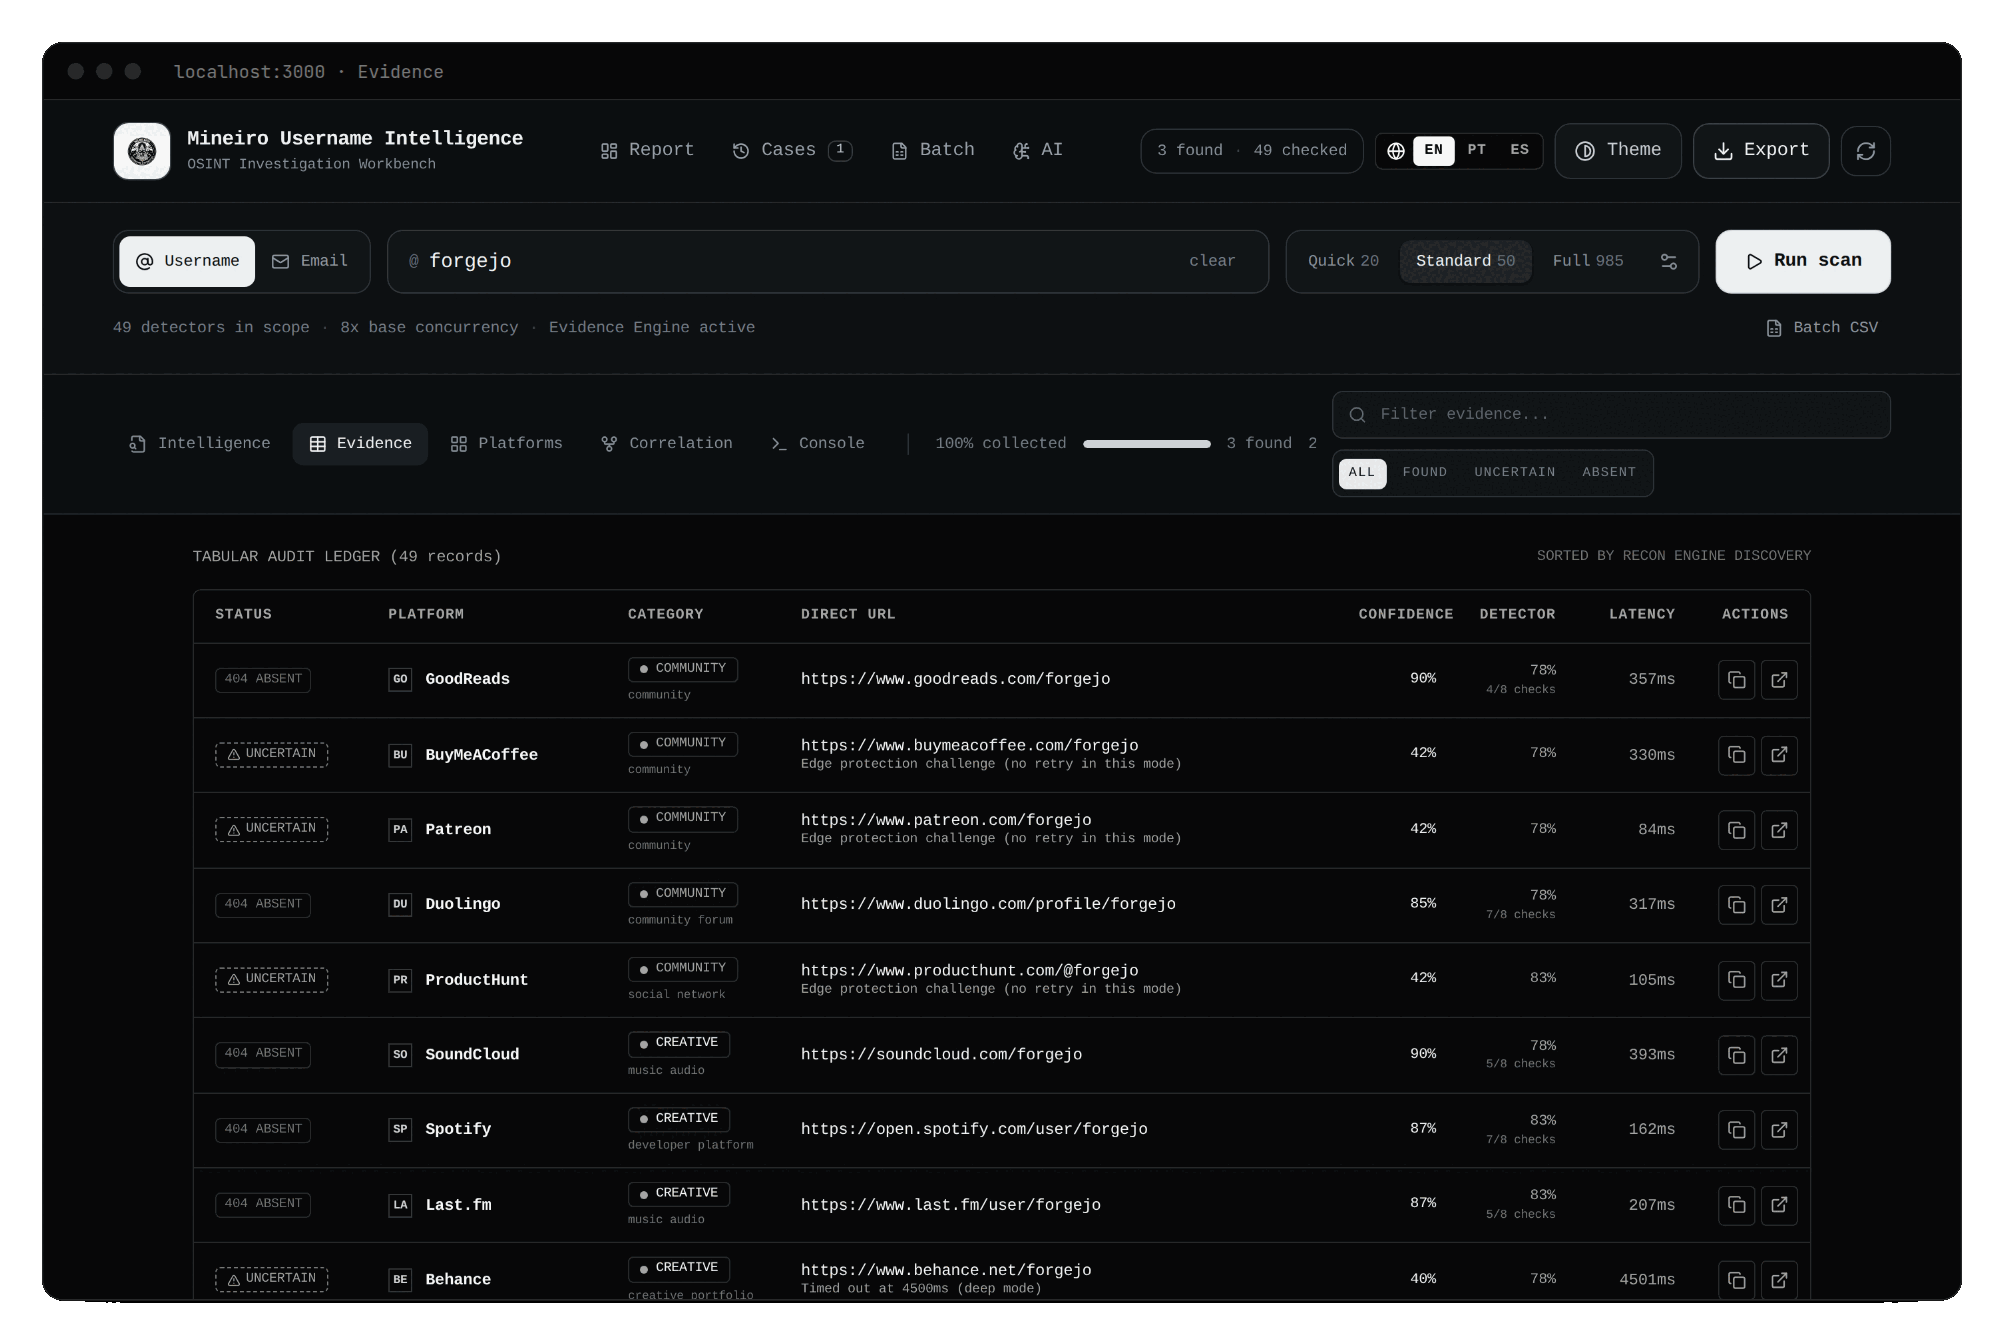
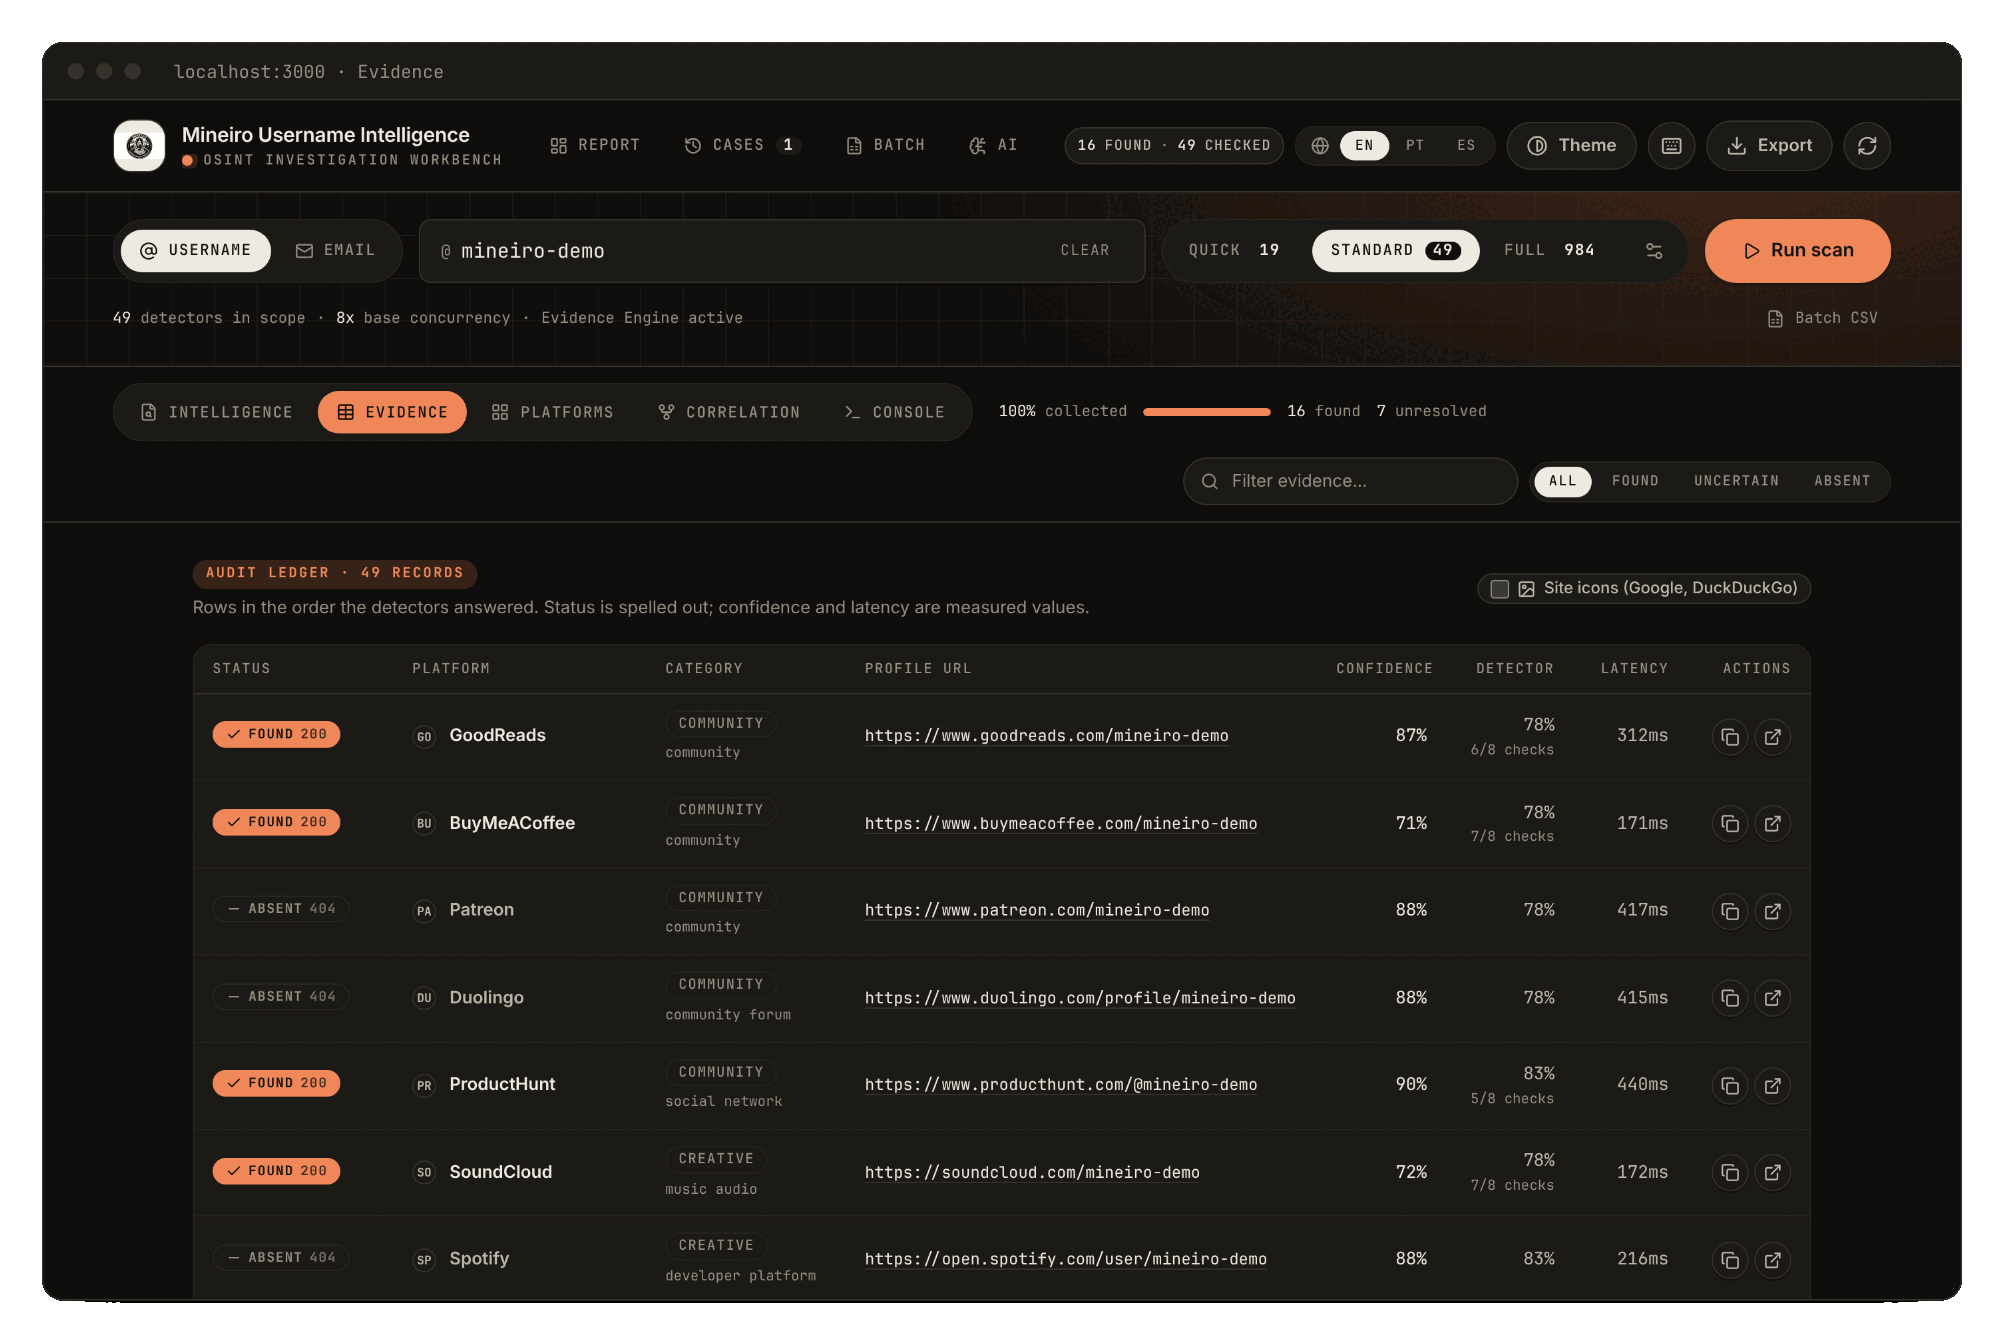
chore(assets): social preview e capturas do README na nova identidade
- capture-app-assets: --offline responde /api/osint/verify com veredictos fixos e
  bloqueia rede externa; usa o handle fictício mineiro-demo para não apresentar
  respostas sintéticas como achados sobre uma organização real.
- capture/render: acham o Chromium do Playwright em chrome-linux64 (1.63).
- common.css e social.html nos tokens (grade, halo, eyebrow, chip signal);
  frames das capturas pintados por token.
- Re-renderizados: social-preview.png e as seis capturas do README. Banner,
  diagramas e assets/docs não foram re-renderizados.

Claude-Session: https://claude.ai/code/session_01S2jjy72BBrJfSKtU9ToFNe

diff --git a/assets/src/social.html b/assets/src/social.html
@@ -2,24 +2,29 @@
 <html><head><meta charset="utf-8">
 <link rel="stylesheet" href="common.css">
 <style>
-  body { width: 1280px; height: 640px; background: var(--black); position: relative; overflow: hidden; }
-  .dots { position: absolute; inset: 0; background-image: radial-gradient(#242424 1px, transparent 1.2px); background-size: 28px 28px; opacity: .6; }
-  svg.ridges { position: absolute; left: 0; bottom: 0; width: 1280px; height: 640px; opacity: .8; }
+  body { width: 1280px; height: 640px; position: relative; overflow: hidden;
+    background: radial-gradient(900px 420px at 88% -10%, var(--signal-soft), transparent 70%),
+      linear-gradient(var(--grid-line) 1px, transparent 1px) 0 0 / 100% 32px,
+      linear-gradient(90deg, var(--grid-line) 1px, transparent 1px) 0 0 / 32px 100%, var(--paper); }
+  .dots { display: none; }
+  svg.ridges { position: absolute; left: 0; bottom: 0; width: 1280px; height: 640px; opacity: .35; }
   .left { position: absolute; left: 72px; top: 64px; width: 560px; height: 512px; display: flex; flex-direction: column; }
   .brand { display: flex; align-items: center; gap: 16px; }
   .brand img { height: 76px; }
-  .brand .eyebrow { font-size: 13px; line-height: 1.5; }
-  h1 { font-weight: 800; font-size: 76px; line-height: .98; letter-spacing: -.05em; margin-top: 56px; }
+  .brand .eyebrow { font-size: 12.5px; line-height: 1.6; }
+  .brand img { border-radius: 14px; }
+  h1 { font-weight: 800; font-size: 74px; line-height: 1; letter-spacing: -.035em; margin-top: 52px; }
+  h1 em { font-style: normal; color: var(--signal); }
   p { font-size: 24px; line-height: 1.45; color: var(--text2); margin-top: 26px; max-width: 520px; }
   p b { color: var(--text); font-weight: 600; }
   .chips { display: flex; gap: 10px; margin-top: auto; font-size: 15px; flex-wrap: wrap; }
   .url { font-family: var(--mono); font-size: 14px; color: var(--muted); margin-top: 18px; }
   .shot { position: absolute; left: 668px; top: 96px; width: 760px; border-radius: 14px; overflow: hidden; border: 1px solid var(--line-strong);
-          box-shadow: 0 30px 80px rgba(0,0,0,.7); background: #000; }
-  .shot .bar { height: 34px; background: #0a0a0a; border-bottom: 1px solid var(--line); display: flex; align-items: center; gap: 7px; padding: 0 14px; }
+          box-shadow: 0 30px 80px rgba(0,0,0,.7); background: var(--card); }
+  .shot .bar { height: 34px; background: var(--paper-2); border-bottom: 1px solid var(--line); display: flex; align-items: center; gap: 7px; padding: 0 14px; }
   .shot .bar i { width: 10px; height: 10px; border-radius: 50%; background: var(--line); }
   .shot img { display: block; width: 760px; }
-  .fade { position: absolute; left: 600px; top: 0; width: 120px; height: 640px; background: linear-gradient(90deg, #000, transparent); }
+  .fade { position: absolute; left: 600px; top: 0; width: 120px; height: 640px; background: linear-gradient(90deg, var(--paper), transparent); }
 </style></head>
 <body>
   <div class="dots"></div>
@@ -27,9 +32,9 @@
   <div class="shot"><div class="bar"><i></i><i></i><i></i></div><img src="raw/evidence.png" alt=""></div>
   <div class="left">
     <div class="brand"><img src="logo-light.png" alt=""><div class="eyebrow">Mineiro Username Intelligence<br>OSINT Investigation Workbench</div></div>
-    <h1>Observation is not identity.</h1>
+    <h1>Observation is not <em>identity.</em></h1>
     <p>Evidence-first checks of <b>public username presence</b>: a differential baseline against <span style="white-space:nowrap">soft-404s</span>, auditable reports, STIX 2.1 export.</p>
-    <div class="chips"><span class="chip">pip install mineiro-osint</span><span class="chip">985 detectors</span></div>
+    <div class="chips"><span class="chip signal">pip install mineiro-osint</span><span class="chip">984 detectors · local-first</span></div>
     <div class="url">github.com/Ridd1kulusC0d3r/Mineiro-OSINT-Extractor</div>
   </div>
   <script src="ridges.js"></script>

diff --git a/assets/src/common.css b/assets/src/common.css
@@ -1,4 +1,4 @@
-/* Shared tokens for generated README assets. Monochrome identity: see src/utils/mineiroPalette.ts */
+/* Shared tokens for generated README assets. Same values as src/styles/tokens.css (dark). */
 @font-face { font-family: "Inter"; font-weight: 400; src: url("../../node_modules/@fontsource/inter/files/inter-latin-400-normal.woff2") format("woff2"); }
 @font-face { font-family: "Inter"; font-weight: 600; src: url("../../node_modules/@fontsource/inter/files/inter-latin-600-normal.woff2") format("woff2"); }
 @font-face { font-family: "Inter"; font-weight: 800; src: url("../../node_modules/@fontsource/inter/files/inter-latin-800-normal.woff2") format("woff2"); }
@@ -6,8 +6,13 @@
 @font-face { font-family: "JetBrains Mono"; font-weight: 600; src: url("../../node_modules/@fontsource/jetbrains-mono/files/jetbrains-mono-latin-600-normal.woff2") format("woff2"); }
 
 :root {
-  --black: #000000; --ink: #050505; --ink2: #0a0a0a; --panel: #111111;
-  --line: #2a2a2a; --line-strong: #4a4a4a; --muted: #737373; --text2: #a3a3a3; --text: #f5f5f5; --white: #ffffff;
+  /* Tokens do tema escuro de src/styles/tokens.css (identidade LLmInjection: papel, tinta e um só sinal). */
+  --paper: #100f0d; --paper-2: #1a1916; --card: #1c1b17; --ink-1: #eeebe2; --ink-2: #bdb8aa; --ink-3: #958f81;
+  --rule: #36332b; --rule-2: #26241f; --signal: #f0885a; --signal-ink: #131210; --signal-soft: #3a2418;
+  --grid-line: rgba(238,235,226,.045);
+  /* Nomes antigos usados pelas páginas de assets/src, mapeados para os tokens. */
+  --black: var(--paper); --ink: var(--paper); --ink2: var(--paper-2); --panel: var(--card);
+  --line: var(--rule); --line-strong: var(--rule); --muted: var(--ink-3); --text2: var(--ink-2); --text: var(--ink-1); --white: var(--ink-1);
   --sans: "Inter", ui-sans-serif, system-ui, sans-serif;
   --mono: "JetBrains Mono", ui-monospace, SFMono-Regular, Menlo, monospace;
 }
@@ -15,5 +20,6 @@
 html, body { background: transparent; }
 body { font-family: var(--sans); color: var(--text); -webkit-font-smoothing: antialiased; }
 .mono { font-family: var(--mono); }
-.eyebrow { font-family: var(--mono); font-weight: 600; letter-spacing: .22em; text-transform: uppercase; color: var(--text2); }
-.chip { font-family: var(--mono); font-weight: 400; border: 1px solid var(--line-strong); border-radius: 999px; padding: 7px 16px; color: var(--text); background: rgba(10,10,10,.7); white-space: nowrap; }
+.eyebrow { font-family: var(--mono); font-weight: 700; letter-spacing: .14em; text-transform: uppercase; color: var(--signal); }
+.chip { font-family: var(--mono); font-weight: 600; border: 1px solid var(--rule); border-radius: 999px; padding: 7px 16px; color: var(--text); background: var(--card); white-space: nowrap; }
+.chip.signal { color: var(--signal-ink); background: var(--signal); border-color: var(--signal); }
